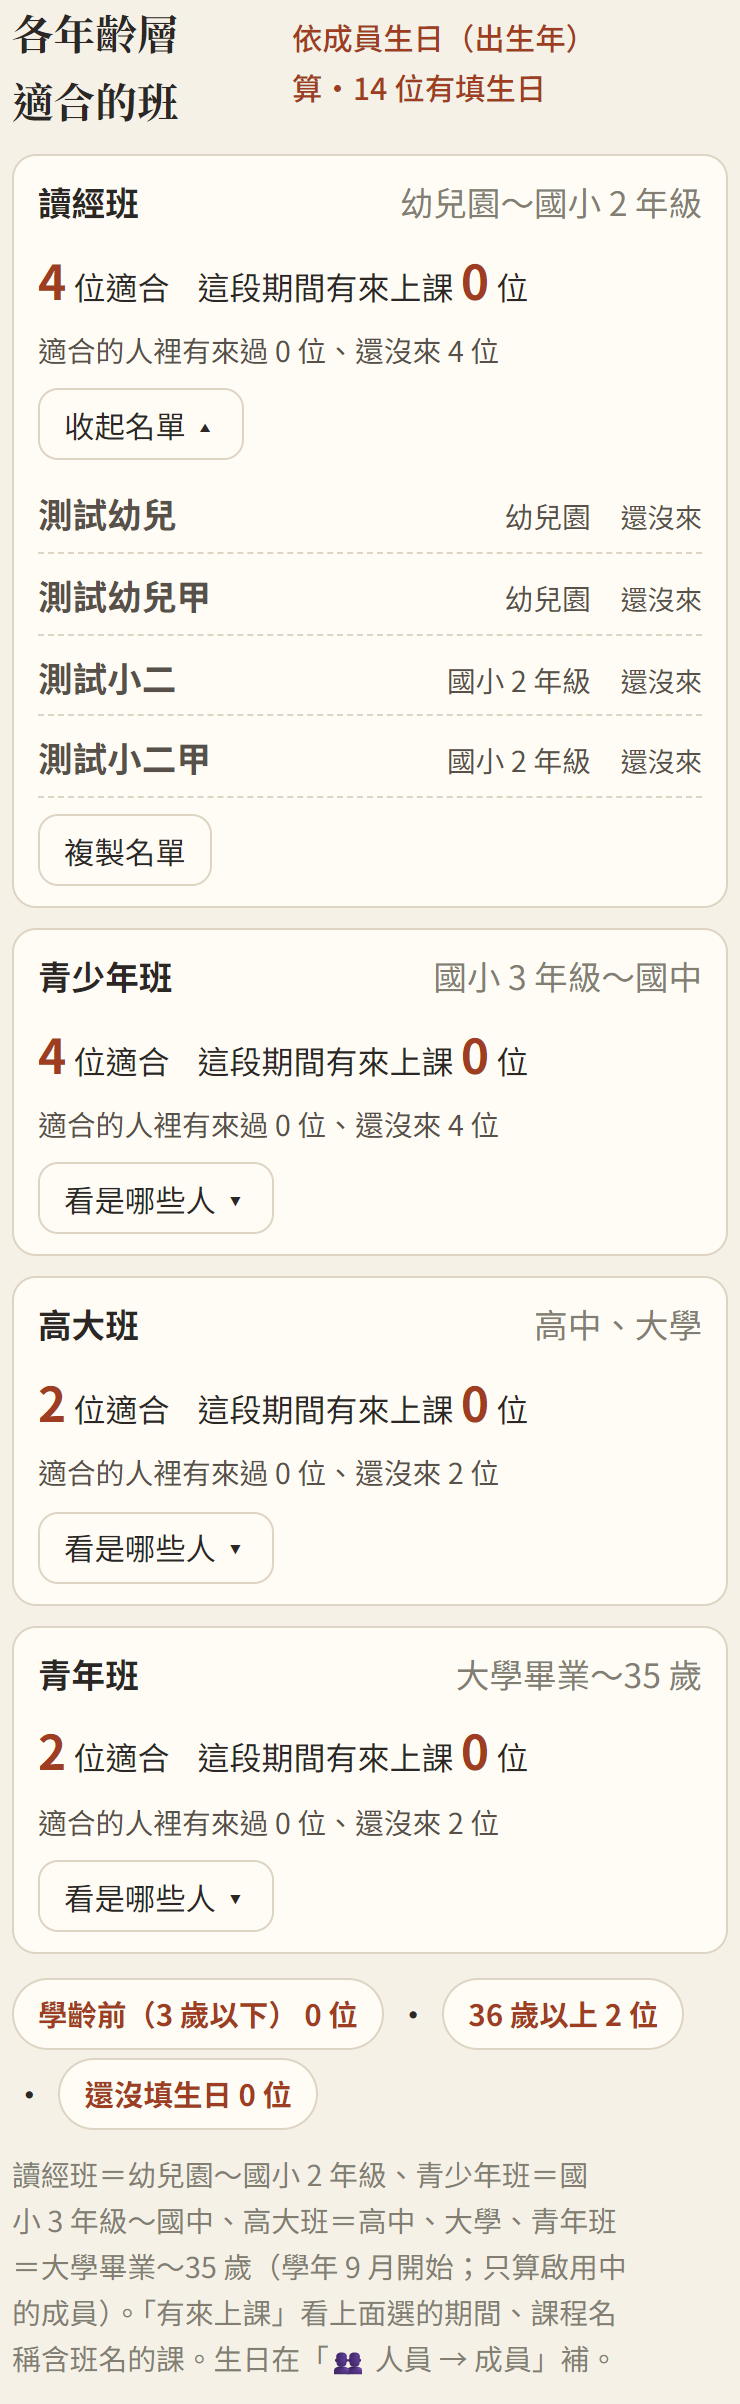
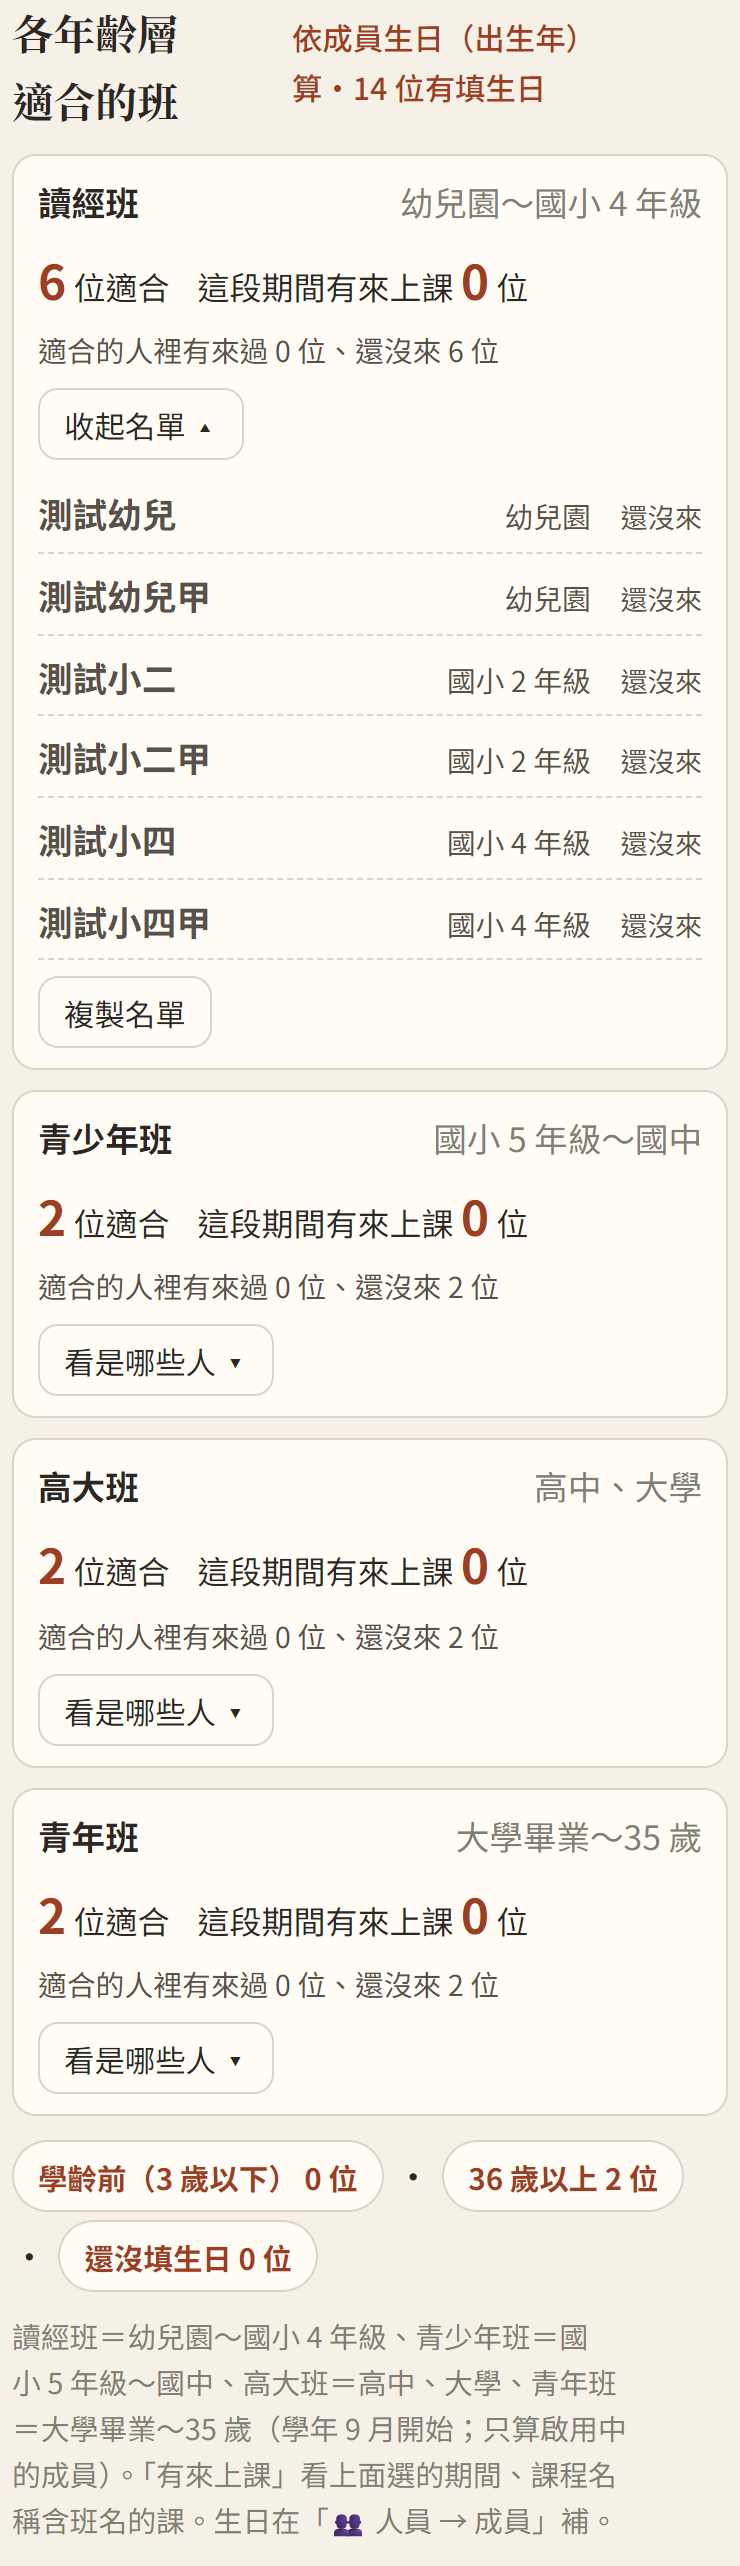
教育統計分班：讀經班到國小 4 年級、青少年班從國小 5 年級

diff --git a/index.html b/index.html
@@ -23,7 +23,7 @@
   <link rel="preconnect" href="https://fonts.googleapis.com">
   <link rel="preconnect" href="https://fonts.gstatic.com" crossorigin>
   <link href="https://fonts.googleapis.com/css2?family=Noto+Sans+TC:wght@400;500;700&family=Noto+Serif+TC:wght@600;700&display=swap" rel="stylesheet">
-  <link rel="stylesheet" href="css/app.css?v=20261123g">
+  <link rel="stylesheet" href="css/app.css?v=20261123h">
   <script>try { var t = localStorage.getItem('duty-calendar:text-size'); if (t === 'l' || t === 'xl') document.documentElement.classList.add('text-' + t); } catch (e) {}</script>
 </head>
 <body class="splash-on">
@@ -118,68 +118,68 @@
   <script src="https://cdn.jsdelivr.net/npm/fullcalendar@6.1.21/index.global.min.js"></script>
   <script src="https://cdn.jsdelivr.net/npm/@fullcalendar/core@6.1.21/locales/zh-tw.global.min.js"></script>
   <!-- 改了 js、css 後把 ?v= 的日期換新，手機才不會用到舊的檔案（GitHub Pages 會快取 10 分鐘） -->
-  <script src="js/site.js?v=20261123g"></script>
-  <script src="js/region.js?v=20261123g"></script>
-  <script src="js/config.js?v=20261123g"></script>
-  <script src="js/api.js?v=20261123g"></script>
-  <script src="js/format.js?v=20261123g"></script>
-  <script src="js/member-suggest.js?v=20261123g"></script>
-  <script src="js/newcomer.js?v=20261123g"></script>
-  <script src="js/member-file.js?v=20261123g"></script>
-  <script src="js/family.js?v=20261123g"></script>
-  <script src="js/lunar-util.js?v=20261123g"></script>
-  <script src="js/date-list.js?v=20261123g"></script>
-  <script src="js/share.js?v=20261123g"></script>
-  <script src="js/addcal.js?v=20261123g"></script>
-  <script src="js/duty-cache.js?v=20261123g"></script>
-  <script src="js/thanks-board.js?v=20261123g"></script>
-  <script src="js/calendar.js?v=20261123g"></script>
-  <script src="js/confirm.js?v=20261123g"></script>
-  <script src="js/reschedule.js?v=20261123g"></script>
-  <script src="js/signup.js?v=20261123g"></script>
-  <script src="js/duty-images.js?v=20261123g"></script>
-  <script src="js/roster-grid.js?v=20261123g"></script>
-  <script src="js/grid-page.js?v=20261123g"></script>
-  <script src="js/grid-image.js?v=20261123g"></script>
-  <script src="js/thanks-image.js?v=20261123g"></script>
-  <script src="js/celebrate.js?v=20261123g"></script>
-  <script src="js/duty.js?v=20261123g"></script>
-  <script src="js/mine.js?v=20261123g"></script>
-  <script src="js/venue-hours.js?v=20261123g"></script>
-  <script src="js/venue.js?v=20261123g"></script>
-  <script src="js/push.js?v=20261123g"></script>
-  <script src="js/admin.js?v=20261123g"></script>
-  <script src="js/admin-pages.js?v=20261123g"></script>
-  <script src="js/draft-editor.js?v=20261123g"></script>
-  <script src="js/group-fair.js?v=20261123g"></script>
-  <script src="js/admin-duties.js?v=20261123g"></script>
-  <script src="js/admin-accounts.js?v=20261123g"></script>
-  <script src="js/admin-site.js?v=20261123g"></script>
-  <script src="js/region-setup.js?v=20261123g"></script>
-  <script src="js/import-parse.js?v=20261123g"></script>
-  <script src="js/admin-import.js?v=20261123g"></script>
-  <script src="js/admin-people.js?v=20261123g"></script>
-  <script src="js/admin-hq.js?v=20261123g"></script>
-  <script src="js/stats-calc.js?v=20261123g"></script>
-  <script src="js/edu-stats.js?v=20261123g"></script>
-  <script src="js/admin-goals.js?v=20261123g"></script>
-  <script src="js/admin-venue.js?v=20261123g"></script>
-  <script src="js/admin-push.js?v=20261123g"></script>
-  <script src="js/tutorial.js?v=20261123g"></script>
-  <script src="js/help.js?v=20261123g"></script>
-  <script src="js/rollcall.js?v=20261123g"></script>
-  <script src="js/stats-export.js?v=20261123g"></script>
-  <script src="js/repair.js?v=20261123g"></script>
-  <script src="js/activity-report.js?v=20261123g"></script>
-  <script src="js/member-stats.js?v=20261123g"></script>
-  <script src="js/admin-stats.js?v=20261123g"></script>
-  <script src="js/admin-report.js?v=20261123g"></script>
-  <script src="js/admin-recent-signups.js?v=20261123g"></script>
-  <script src="js/admin-notice.js?v=20261123g"></script>
-  <script src="js/admin-notify.js?v=20261123g"></script>
-  <script src="js/history-parse.js?v=20261123g"></script>
-  <script src="js/admin-history.js?v=20261123g"></script>
-  <script src="js/easy-mode.js?v=20261123g"></script>
-  <script src="js/app.js?v=20261123g"></script>
+  <script src="js/site.js?v=20261123h"></script>
+  <script src="js/region.js?v=20261123h"></script>
+  <script src="js/config.js?v=20261123h"></script>
+  <script src="js/api.js?v=20261123h"></script>
+  <script src="js/format.js?v=20261123h"></script>
+  <script src="js/member-suggest.js?v=20261123h"></script>
+  <script src="js/newcomer.js?v=20261123h"></script>
+  <script src="js/member-file.js?v=20261123h"></script>
+  <script src="js/family.js?v=20261123h"></script>
+  <script src="js/lunar-util.js?v=20261123h"></script>
+  <script src="js/date-list.js?v=20261123h"></script>
+  <script src="js/share.js?v=20261123h"></script>
+  <script src="js/addcal.js?v=20261123h"></script>
+  <script src="js/duty-cache.js?v=20261123h"></script>
+  <script src="js/thanks-board.js?v=20261123h"></script>
+  <script src="js/calendar.js?v=20261123h"></script>
+  <script src="js/confirm.js?v=20261123h"></script>
+  <script src="js/reschedule.js?v=20261123h"></script>
+  <script src="js/signup.js?v=20261123h"></script>
+  <script src="js/duty-images.js?v=20261123h"></script>
+  <script src="js/roster-grid.js?v=20261123h"></script>
+  <script src="js/grid-page.js?v=20261123h"></script>
+  <script src="js/grid-image.js?v=20261123h"></script>
+  <script src="js/thanks-image.js?v=20261123h"></script>
+  <script src="js/celebrate.js?v=20261123h"></script>
+  <script src="js/duty.js?v=20261123h"></script>
+  <script src="js/mine.js?v=20261123h"></script>
+  <script src="js/venue-hours.js?v=20261123h"></script>
+  <script src="js/venue.js?v=20261123h"></script>
+  <script src="js/push.js?v=20261123h"></script>
+  <script src="js/admin.js?v=20261123h"></script>
+  <script src="js/admin-pages.js?v=20261123h"></script>
+  <script src="js/draft-editor.js?v=20261123h"></script>
+  <script src="js/group-fair.js?v=20261123h"></script>
+  <script src="js/admin-duties.js?v=20261123h"></script>
+  <script src="js/admin-accounts.js?v=20261123h"></script>
+  <script src="js/admin-site.js?v=20261123h"></script>
+  <script src="js/region-setup.js?v=20261123h"></script>
+  <script src="js/import-parse.js?v=20261123h"></script>
+  <script src="js/admin-import.js?v=20261123h"></script>
+  <script src="js/admin-people.js?v=20261123h"></script>
+  <script src="js/admin-hq.js?v=20261123h"></script>
+  <script src="js/stats-calc.js?v=20261123h"></script>
+  <script src="js/edu-stats.js?v=20261123h"></script>
+  <script src="js/admin-goals.js?v=20261123h"></script>
+  <script src="js/admin-venue.js?v=20261123h"></script>
+  <script src="js/admin-push.js?v=20261123h"></script>
+  <script src="js/tutorial.js?v=20261123h"></script>
+  <script src="js/help.js?v=20261123h"></script>
+  <script src="js/rollcall.js?v=20261123h"></script>
+  <script src="js/stats-export.js?v=20261123h"></script>
+  <script src="js/repair.js?v=20261123h"></script>
+  <script src="js/activity-report.js?v=20261123h"></script>
+  <script src="js/member-stats.js?v=20261123h"></script>
+  <script src="js/admin-stats.js?v=20261123h"></script>
+  <script src="js/admin-report.js?v=20261123h"></script>
+  <script src="js/admin-recent-signups.js?v=20261123h"></script>
+  <script src="js/admin-notice.js?v=20261123h"></script>
+  <script src="js/admin-notify.js?v=20261123h"></script>
+  <script src="js/history-parse.js?v=20261123h"></script>
+  <script src="js/admin-history.js?v=20261123h"></script>
+  <script src="js/easy-mode.js?v=20261123h"></script>
+  <script src="js/app.js?v=20261123h"></script>
 </body>
 </html>

diff --git a/js/admin-stats.js b/js/admin-stats.js
@@ -442,7 +442,7 @@
       }).join('')}</div>
       <p class="age-others">${others.map(([key, label, list]) => `<button type="button" class="link-btn" data-age-other="${key}">${label} ${list.length} 位</button>`).join('・')}</p>
       ${others.filter(([key]) => open[key]).map(([key, label, list]) => `<div class="edu-class-card"><div class="edu-class-head"><strong>${label}</strong><span class="muted">${list.length} 位</span></div>${list.length ? people(list, false) : '<p class="muted">沒有</p>'}</div>`).join('')}
-      <p class="hint">讀經班＝幼兒園～國小 2 年級、青少年班＝國小 3 年級～國中、高大班＝高中、大學、青年班＝大學畢業～35 歲（學年 9 月開始；只算啟用中的成員）。「有來上課」看上面選的期間、課程名稱含班名的課。生日在「👥 人員 → 成員」補。</p>`;
+      <p class="hint">讀經班＝幼兒園～國小 4 年級、青少年班＝國小 5 年級～國中、高大班＝高中、大學、青年班＝大學畢業～35 歲（學年 9 月開始；只算啟用中的成員）。「有來上課」看上面選的期間、課程名稱含班名的課。生日在「👥 人員 → 成員」補。</p>`;
     const redraw = () => mountAgeClasses(box, courses, today, guard);
     box.querySelectorAll('[data-age-open]').forEach((b) => b.addEventListener('click', () => { const i = b.dataset.ageOpen; open[i] = !open[i]; redraw(); }));
     box.querySelectorAll('[data-age-other]').forEach((b) => b.addEventListener('click', () => { const k = b.dataset.ageOther; open[k] = !open[k]; redraw(); }));

diff --git a/js/edu-stats.js b/js/edu-stats.js
@@ -134,11 +134,11 @@
 
   /**
    * 各年齡層適合的班（2026/11/23）：依成員的出生年（學齡用 Family.schoolStage）分到讀經班、青少年班、高大班、青年班。
-   * 讀經班＝幼兒園～國小 2 年級；青少年班＝國小 3 年級～國中；高大班＝高中、大學；青年班＝大學畢業～35 歲。
+   * 讀經班＝幼兒園～國小 4 年級；青少年班＝國小 5 年級～國中；高大班＝高中、大學；青年班＝大學畢業～35 歲。
    */
   const AGE_CLASSES = [
-    { name: '讀經班', range: '幼兒園～國小 2 年級', test: (st) => !!st && (st.stage === '幼兒園' || (st.stage === '國小' && st.grade <= 2)) },
-    { name: '青少年班', range: '國小 3 年級～國中', test: (st) => !!st && ((st.stage === '國小' && st.grade >= 3) || st.stage === '國中') },
+    { name: '讀經班', range: '幼兒園～國小 4 年級', test: (st) => !!st && (st.stage === '幼兒園' || (st.stage === '國小' && st.grade <= 4)) },
+    { name: '青少年班', range: '國小 5 年級～國中', test: (st) => !!st && ((st.stage === '國小' && st.grade >= 5) || st.stage === '國中') },
     { name: '高大班', range: '高中、大學', test: (st) => !!st && (st.stage === '高中' || st.stage === '大學') },
     { name: '青年班', range: '大學畢業～35 歲', test: (st, age) => !st && age !== '' && age >= 18 && age <= 35 }
   ];

diff --git a/docs/spec.md b/docs/spec.md
@@ -350,7 +350,7 @@
 - **填了佛堂自動帶入勤務了愿組（2026/11/22）**：勤務了愿組是依佛堂分的，templeGroupMap_ 看同一佛堂有設組的成員，2/3 以上同一組就是那個佛堂的組（沒人設過或分不出來＝不帶）。成員存檔（佛堂有改、勤務了愿組空白）、從出勤紀錄加入、報名自動加入（待確認）、adminSetMemberExtra 改佛堂、匯入成員資料（含新增）時，勤務了愿組空白就帶入；已經有組的不蓋掉。成員編輯視窗選了佛堂、勤務了愿組空著時當場帶入並提示「已依佛堂帶入」。打掃組、拜香輪值組依人名，不自動帶。
 - **依名單設定組別（2026/11/22）**：分組頁「📋 依名單設定組別」：選分組類型、貼上「組名：名單」（一行一組，組名後面的冒號可省；「召集人、組長、佐理、組員、副組長」字樣和括號會拿掉），寫「佛堂」結尾的當佛堂、其他當姓名；「用各組的「組員」欄」把分組上的組長、佐理、組員帶進來。adminAssignGroups（總管理者、道務、教育）：組名比對時中文數字換成阿拉伯數字、去掉括號（第一組＝第1組，第五組(青年組)＝第五組），沒有的組整批擋下並列出現有的組；佛堂去掉「佛堂」兩字後相同或互相包含（高徽佛堂↔高徽公共）的成員全部設成那組；姓名（或別名）對到一位才設，同名好幾位列為分不出來；名字比佛堂優先；可選「名單上沒有的人清掉這一類組別」（只清啟用中的）；待確認的成員不動。沒有 apply＝只預覽（誰從哪組換到哪組、依佛堂或依名字、找不到的名字、對不到的佛堂、同名分不出來），按「確定設定」才寫入並記操作紀錄。
 - **道二代、道三代與學齡（2026/11/22）**：「成員」分頁最後新增「父母」（成員名單上的爸爸、媽媽，姓名「、」分開，最多 4 位，不能填自己）、「學校」（50 字）、「興趣」（200 字）。成員編輯視窗多「👨👩👧 家人」區：父母欄連動成員名單（好幾位），下面即時顯示自動算的學齡、第幾代、子女，父母不在名單上會提醒。**第幾代**（js/family.js Family.generations，前端算、不存）：父母（名單上、身分是道親／壇辦／點傳師）最大代數＋1，沒有＝第 1 代；2＝道二代、3＝道三代、4＝道四代；**只標 45 歲（含）以下**（Family.MAX_AGE；沒填年齡的照算），超過的不標籤、不算進道二代頁的人數與篩選（shownGen＝1），但真正的代數照算給子女用；父母填成環不會當掉；同名不同佛堂分開算。**學齡**（Family.schoolStage）：台灣學年 9 月開始，學年開始時滿 6 歲＝國小一年級，依出生年推算（只有出生年，9 月以後生日的可能差一年）：學齡前（3 歲以下）、幼兒園、國小 1～6、國中 1～3、高中 1～3、大學 1～4，之後不顯示。成員卡片多「道二代」「國小 3 年級」標籤。👥 人員多一頁「👨👩👧 道二代」（#/admin/youth，所有帳號看得到；總管理者、道務、教育能改）：上面人數卡（道二代、道三代、道四代以上、各學齡，點了篩選），篩選（道二代以上或學齡中／道二代／道三代／道四代以上／學齡中還沒填父母／全部；學齡；搜尋姓名、父母、佛堂、學校、興趣），名單依學齡排（父母、子女、學校、興趣），點一位用 adminSetFamily 只改父母、年齡、學校、興趣（父母要在名單上），「⬇ 匯出 Excel」（姓名、佛堂、第幾代、學齡、年齡、身分、父母、子女、學校、興趣）。成員改名、合併成同一人時，別人「父母」欄裡的名字一起改（renameParentRefs_）。匯入成員資料也認得父母（家長、父親、母親，可以兩欄）、學校（就讀）、興趣（專長、才藝）欄；「父親姓名」不會被當成姓名，電話、地址欄不對到任何欄位。
-- **教育統計：各年齡層適合的班（2026/11/23）**：統計選「教育」，各班師資下面「各年齡層適合的班」（js/edu-stats.js ageClasses、AGE_CLASSES；js/admin-stats.js mountAgeClasses，成員名單 adminMembers 1 分鐘內不重讀）：依成員出生年和學齡（Family.schoolStage）分：讀經班＝幼兒園～國小 2 年級、青少年班＝國小 3 年級～國中、高大班＝高中、大學、青年班＝大學畢業～35 歲；只算啟用中、不是待確認的成員。每班一張卡：幾位適合、這段期間有來上課幾位（上面選的期間、課程名稱含班名，名字或別名對到成員）、適合的人裡有來過／還沒來幾位、有來但不在這個年齡幾位；「看是哪些人」展開名單（年紀小的在前：姓名、佛堂、幾年級或幾歲、✓ 有來／還沒來，下面列有來但不在這個年齡的名字）、「複製名單」。最下面學齡前、36 歲以上、還沒填生日幾位，點了展開名單。
+- **教育統計：各年齡層適合的班（2026/11/23）**：統計選「教育」，各班師資下面「各年齡層適合的班」（js/edu-stats.js ageClasses、AGE_CLASSES；js/admin-stats.js mountAgeClasses，成員名單 adminMembers 1 分鐘內不重讀）：依成員出生年和學齡（Family.schoolStage）分：讀經班＝幼兒園～國小 4 年級、青少年班＝國小 5 年級～國中、高大班＝高中、大學、青年班＝大學畢業～35 歲；只算啟用中、不是待確認的成員。每班一張卡：幾位適合、這段期間有來上課幾位（上面選的期間、課程名稱含班名，名字或別名對到成員）、適合的人裡有來過／還沒來幾位、有來但不在這個年齡幾位；「看是哪些人」展開名單（年紀小的在前：姓名、佛堂、幾年級或幾歲、✓ 有來／還沒來，下面列有來但不在這個年齡的名字）、「複製名單」。最下面學齡前、36 歲以上、還沒填生日幾位，點了展開名單。
 - **新朋友報名要填佛堂、生日（2026/11/23）**：報名（signup_）、管理者幫人報名／補登（adminAddAttendee_）時，名字不在成員名單上（含待確認、別名）的人，一定要有佛堂（從佛堂清單選，或「沒有」＝noTemple）和生日（birth，同成員編輯的寫法，可以只填出生年），少了回 NEWCOMER（details＝每位 { name, message }，最後一筆 { temples: 佛堂清單 }）。前端 js/newcomer.js：跳「🌱 新朋友，請再填一下」視窗（每位一個佛堂選單＋生日欄，即時顯示幾年生、幾歲），填好自動再送一次（Newcomer.run／ask）；用在報名頁、補登視窗、職司表加人。新名字自動加入的待確認成員會存佛堂、出生年、生日（addPendingMembers_ 的 births）。名單上已經有的人（含待確認）不用填。指令碼屬性 NEWCOMER_INFO＝0 可以關掉（測試用）。
 - **成員生日（月日，選填，2026/11/23）**：「成員」分頁最後新增「生日」（MM-dd；年在「出生年」）。成員編輯視窗和道二代頁的「年齡」改成一格「生日（選填；只知道出生年就填年，年齡會自動算）」（2026/11/23 改）：接受 1965/3/7、1965-03-07、1965年3月7日、民國54年3月7日、54/3/7、054.03.07，或只有年 1965、54（兩三位數＝民國），下面即時顯示「→ 1965 年生・今年 61 歲・生日 3/7」，看不懂的紅字；存檔送 birth（有改才送，原本只有月日的不會被清掉），後端 birthInput_ 換成出生年＋生日（只填年＝月日清掉；1900 以前、今年以後、不存在的日期擋），adminSaveMember、adminSetFamily 都收；舊的 age、birthday 參數照樣可用；成員卡片顯示「🎂 3/7」；adminMembers 回 birthday。匯入成員資料：生日欄有月日的（日期、Excel 序號、1965/3/7、54.03.07、民國54年3月7日；MemberFile.parseMonthDay）帶 birthday，只有年的不動原本的月日；合併成同一人時沒填的用另一位的補。
 - **匯入成員資料：Excel／Word／PDF（2026/11/22）**：成員頁「📋 匯入成員資料」可以選檔案（.xlsx .xls .csv .ods、.docx、.pdf，可多個）或貼上表格（從 Excel 複製，tab 分欄）／Claude 整理的 JSON（舊格式照樣可用）。js/member-file.js 在瀏覽器裡讀（不上傳）：Excel 用 SheetJS（cdnjs 0.18.5，每個工作表一份）；Word 用 SheetJS 的 CFB 解 zip 讀 word/document.xml（每個表格一份，表格外的段落用 tab／兩個以上空白切）；PDF 用 pdf.js（cdnjs 3.11.174）取文字，同一高度一列、隔開的分格，有表頭時每格放到最近的表頭欄；文字一律 NFKC（PDF 的部首字⾝⼝⼄換回身口乙）。自動對欄：前 15 列找有「姓名」又最多欄對得上的那列當表頭（姓名／佛堂（所屬、壇）／年齡（歲）／出生（生日、年次）／身分（身份、職稱）／清口（吃素）／國外（地區）），沒有表頭就看內容猜（兩到四個中文字＝姓名、身分字、1～120 的數字＝年齡）。轉換：出生年接受西元、民國（54、54/3/2、054.03.02、民國54年）、日期、Excel 序號；身分：點傳師、壇辦（壇主、講師、辦事員）、未求道（新朋友）、道親（求道）；清口：是／V／✓／O／Y／有；國外：大陸／中國→陸、韓國。名字去掉括號裡的小名和前面的編號，跳過合計列，同名同佛堂只留一筆。畫面每個來源一塊，每個欄位可以改選對應哪一欄；下面列出前 30 位「會補上」什麼、找不到的標紅；找不到時才出現「直接新增成員」。送出仍是 adminImportMembers（只更新有給的欄位）。舊版 .doc、掃描 PDF 會說明讀不到。
